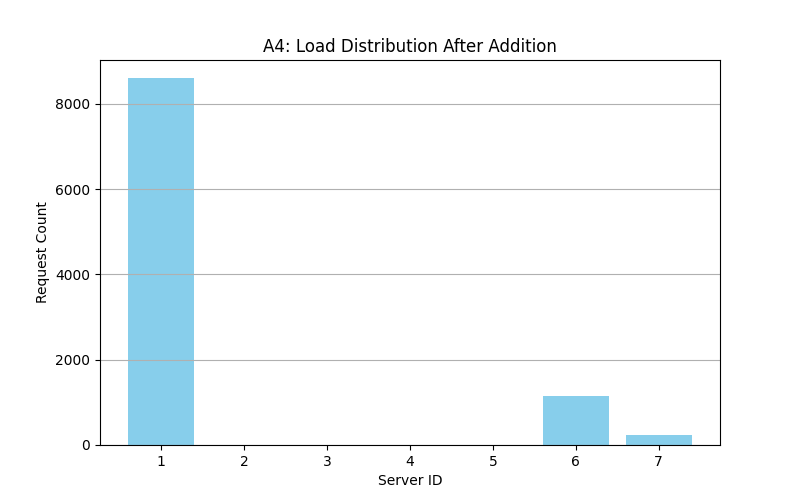
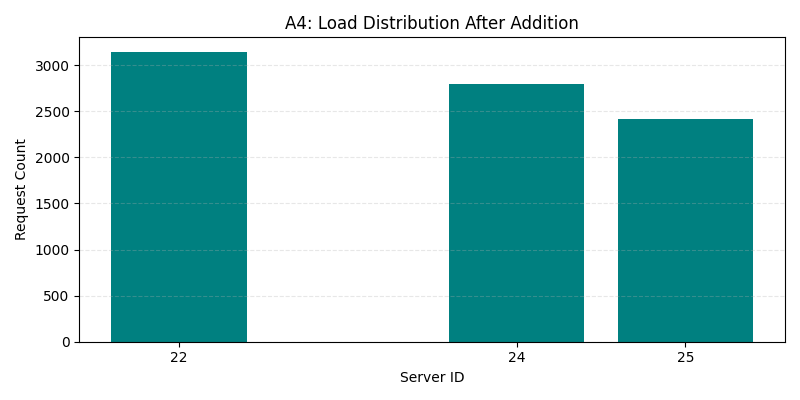
10k 2

diff --git a/analysis/analyze_load_balancer.py b/analysis/analyze_load_balancer.py
@@ -1,5 +1,6 @@
 import requests
 import matplotlib.pyplot as plt
+import concurrent.futures
 from collections import Counter
 import os
 
@@ -17,38 +18,57 @@ def reset_servers():
     except Exception as e:
         print("Error resetting servers:", e)
 
-def simulate_requests():
-    result = []
+def simulate_requests(n_requests=10000):
+    server_ids = []
     skipped = 0
-    for _ in range(N):
+
+    def send_request(_):
         try:
             res = requests.get(f"{BASE_URL}/home", timeout=1)
             data = res.json()
-            if "message" not in data:
+            return data.get("message")  # e.g. "Hello from Server: 21"
+        except:
+            return None
+
+    with concurrent.futures.ThreadPoolExecutor(max_workers=100) as executor:
+        results = executor.map(send_request, range(n_requests))
+
+    for msg in results:
+        if msg and "Server:" in msg:
+            try:
+                sid = int(msg.split("Server:")[1].strip())
+                server_ids.append(sid)
+            except ValueError:
                 skipped += 1
-                continue
-            msg = data["message"]
-            if "Server:" in msg:
-                server_id = int(msg.split("Server:")[-1].strip())
-                result.append(server_id)
-        except Exception as e:
+        else:
             skipped += 1
-    return result, skipped
 
-def plot_distribution(counts, title, filename):
-    ids = list(counts.keys())
-    values = list(counts.values())
+    return server_ids, skipped
 
-    plt.figure(figsize=(8, 5))
-    plt.bar(ids, values, color='skyblue')
+def plot_distribution(data: dict, title: str, filename: str):
+    # 🧹 Filter out 0-values again (in case)
+    filtered = {k: v for k, v in data.items() if v > 0}
+
+    if not filtered:
+        print("[WARN] Nothing to plot — all values are zero.")
+        return
+
+    keys = sorted(filtered.keys())
+    values = [filtered[k] for k in keys]
+
+    plt.figure(figsize=(8, 4))
+    plt.bar(keys, values, color="teal")
     plt.xlabel("Server ID")
     plt.ylabel("Request Count")
     plt.title(title)
-    plt.grid(axis='y')
-    filepath = os.path.join(PLOT_DIR, filename)
-    plt.savefig(filepath)
+    plt.xticks(keys) 
+    plt.grid(True, axis='y', linestyle='--', alpha=0.3)
+    plt.tight_layout()
+
+    out_path = os.path.join(PLOT_DIR, filename)
+    plt.savefig(out_path)
     plt.close()
-    print(f"Saved plot: {filepath}")
+
 
 def analyze(counts, title=""):
     total = sum(counts.values())
@@ -65,16 +85,27 @@ def simulate_distribution(n_servers):
     server_ids, skipped = simulate_requests()
     counts = dict(Counter(server_ids))
 
-    min_val = min(counts.values()) if counts else 0
-    max_val = max(counts.values()) if counts else 0
+    # 🔍 Remove 0-counts (if any) — though Counter typically avoids this
+    filtered_counts = {sid: c for sid, c in counts.items() if c > 0}
+
+    if not filtered_counts:
+        print("[WARN] No valid requests were routed to any server.")
+        return 0
+
+    min_val = min(filtered_counts.values())
+    max_val = max(filtered_counts.values())
     spread = max_val - min_val
 
     print(f"Spread for {n_servers} servers: {spread} requests")
     print(f"Skipped due to errors: {skipped}")
-    for sid, c in sorted(counts.items()):
+    for sid, c in sorted(filtered_counts.items()):
         print(f"  Server {sid}: {c} requests")
 
-    plot_distribution(counts, f"A2: Distribution with {n_servers} Servers", f"a2_{n_servers}_servers.png")
+    plot_distribution(
+        filtered_counts,
+        title=f"A2: Distribution with {n_servers} Servers",
+        filename=f"a2_{n_servers}_servers.png"
+    )
     return spread
 
 # --- A1: Baseline Distribution ---
@@ -90,7 +121,7 @@ plot_distribution(counts_a1, "A1: Load Distribution (3 Servers)", "a1_baseline.p
 # --- A2: Server Count vs Spread ---
 print("\n--- A2: Spread vs Server Count ---")
 spreads = {}
-for s_count in [3, 5, 7]:
+for s_count in range(2, 10):  # 2 to 10 servers
     spreads[s_count] = simulate_distribution(s_count)
 
 plt.figure(figsize=(8, 5))
@@ -123,4 +154,3 @@ counts_add = dict(Counter(server_ids_after_add))
 analyze(counts_add, "A4: After Adding One Server")
 print(f"Skipped requests: {skipped_add}")
 plot_distribution(counts_add, "A4: Load Distribution After Addition", "a4_added_server.png")
-

diff --git a/load_balancer/consistent_hash.py b/load_balancer/consistent_hash.py
@@ -1,29 +1,25 @@
 import bisect
 import hashlib
-
-M = 512  # total slots
-K = 9    # virtual servers per physical server
-
-
 class ConsistentHashRing:
-    def __init__(self):
-        self.ring = dict()  # slot_index -> server_id
+    def __init__(self, slots=512, virtual_nodes=100):
+        self.slots = slots
+        self.virtual_nodes = virtual_nodes
+        self.ring = {}  # slot -> server_id
         self.sorted_slots = []
 
-    def _hash_request(self, i: int) -> int:
-        return (i ** 2 + 2 * i + 17) % M
-
-    def _hash_virtual_server(self, i: int, j: int) -> int:
-        return (i ** 2 + j + 2 * j + 25) % M
+    def _hash(self, key: str) -> int:
+        h = hashlib.sha256(key.encode()).hexdigest()
+        return int(h, 16) % self.slots
 
     def add_server(self, server_id: int):
-        for j in range(K):
-            slot = self._hash_virtual_server(server_id, j)
-            original_slot = slot
+        for j in range(self.virtual_nodes):
+            key = f"{server_id}-vn{j}"
+            slot = self._hash(key)
 
-            # Handle collisions with linear probing
+            # Avoid collision: use linear probing
+            original_slot = slot
             while slot in self.ring:
-                slot = (slot + 1) % M
+                slot = (slot + 1) % self.slots
                 if slot == original_slot:
                     raise Exception("Hash ring is full")
 
@@ -31,19 +27,16 @@ class ConsistentHashRing:
             bisect.insort(self.sorted_slots, slot)
 
     def get_server(self, request_id: int) -> int:
-        request_slot = self._hash_request(request_id)
+        key = str(request_id)
+        request_slot = self._hash(key)
         idx = bisect.bisect_right(self.sorted_slots, request_slot)
-
-        # wrap around if needed
         if idx == len(self.sorted_slots):
             idx = 0
-
         assigned_slot = self.sorted_slots[idx]
         return self.ring[assigned_slot]
-    
+
     def remove_server(self, server_id: int):
         to_remove = [slot for slot, sid in self.ring.items() if sid == server_id]
         for slot in to_remove:
             del self.ring[slot]
         self.sorted_slots = sorted(self.ring.keys())
-
